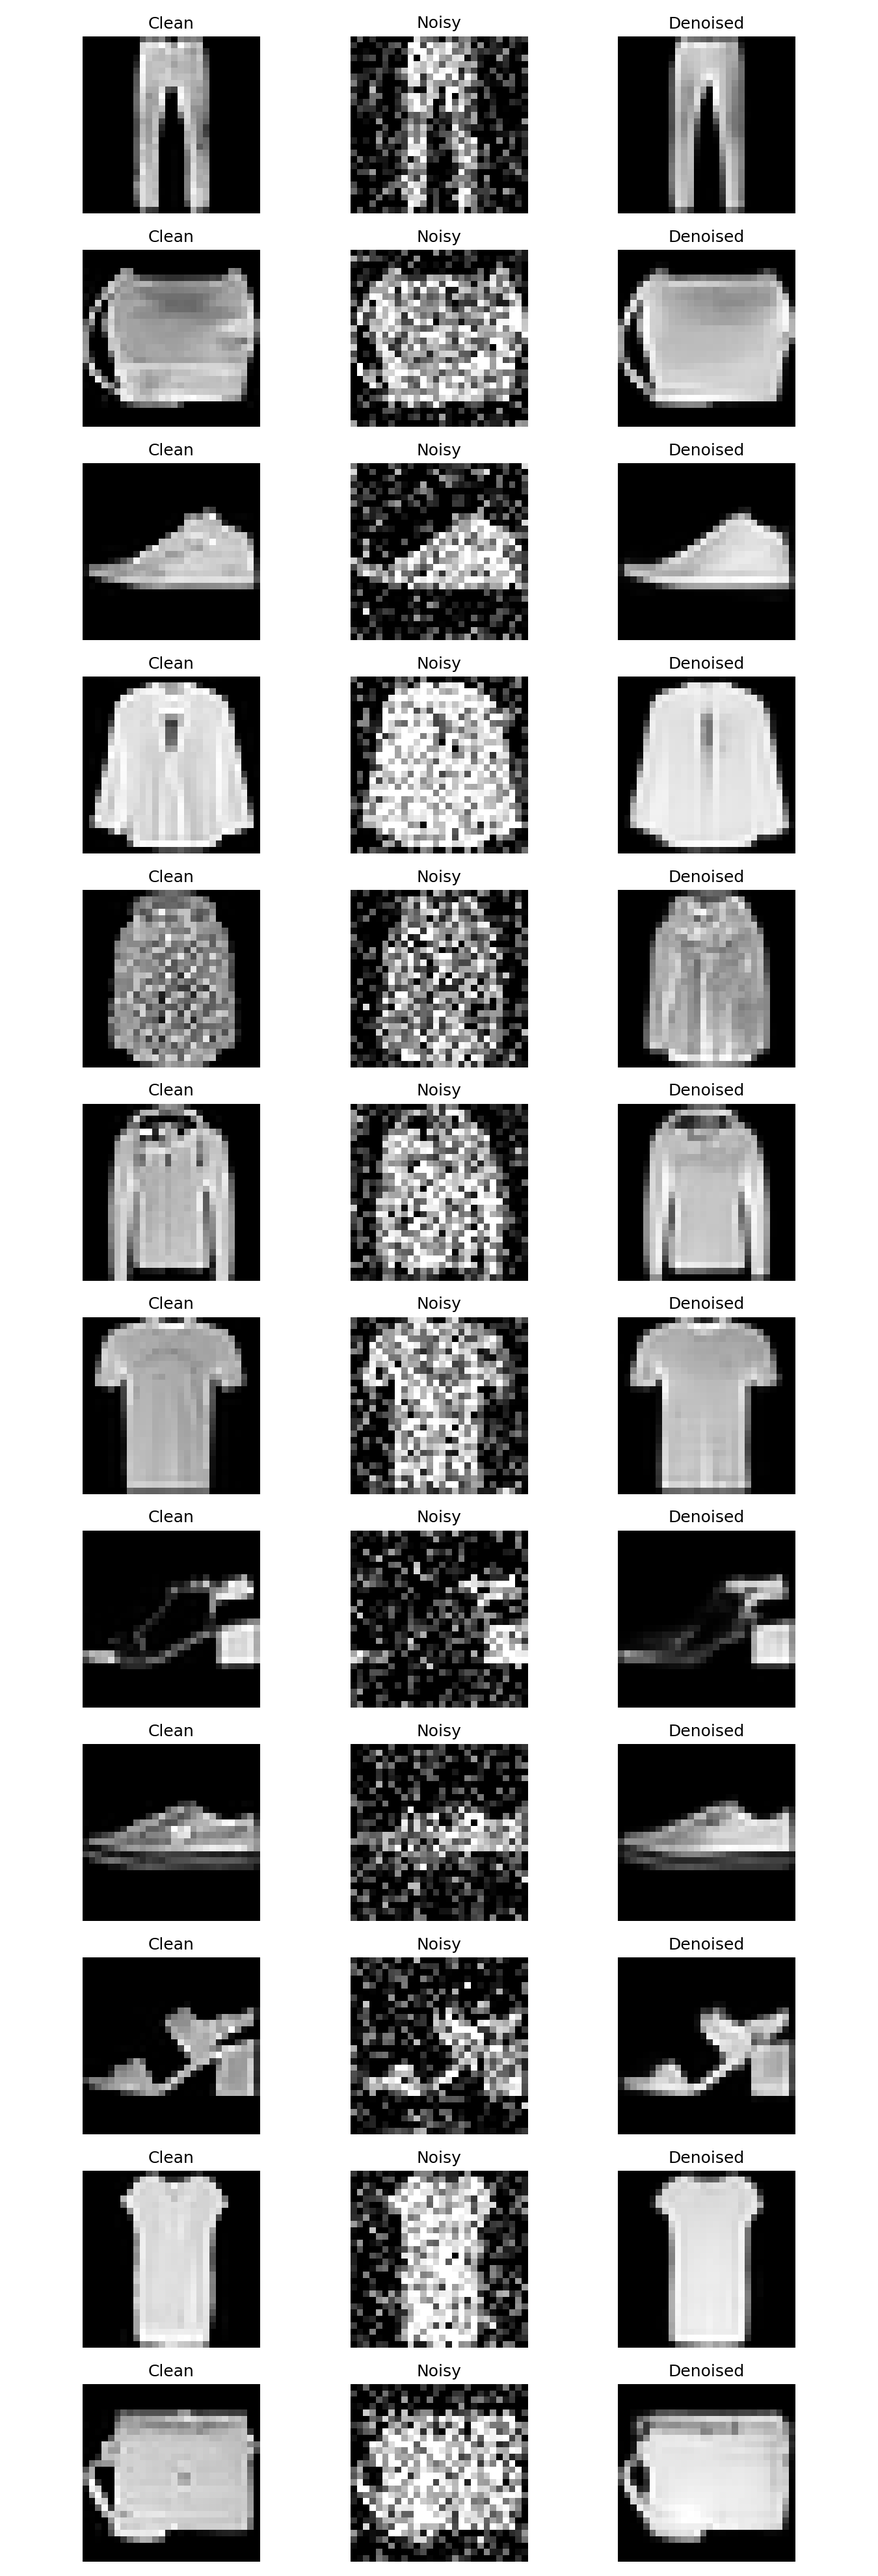
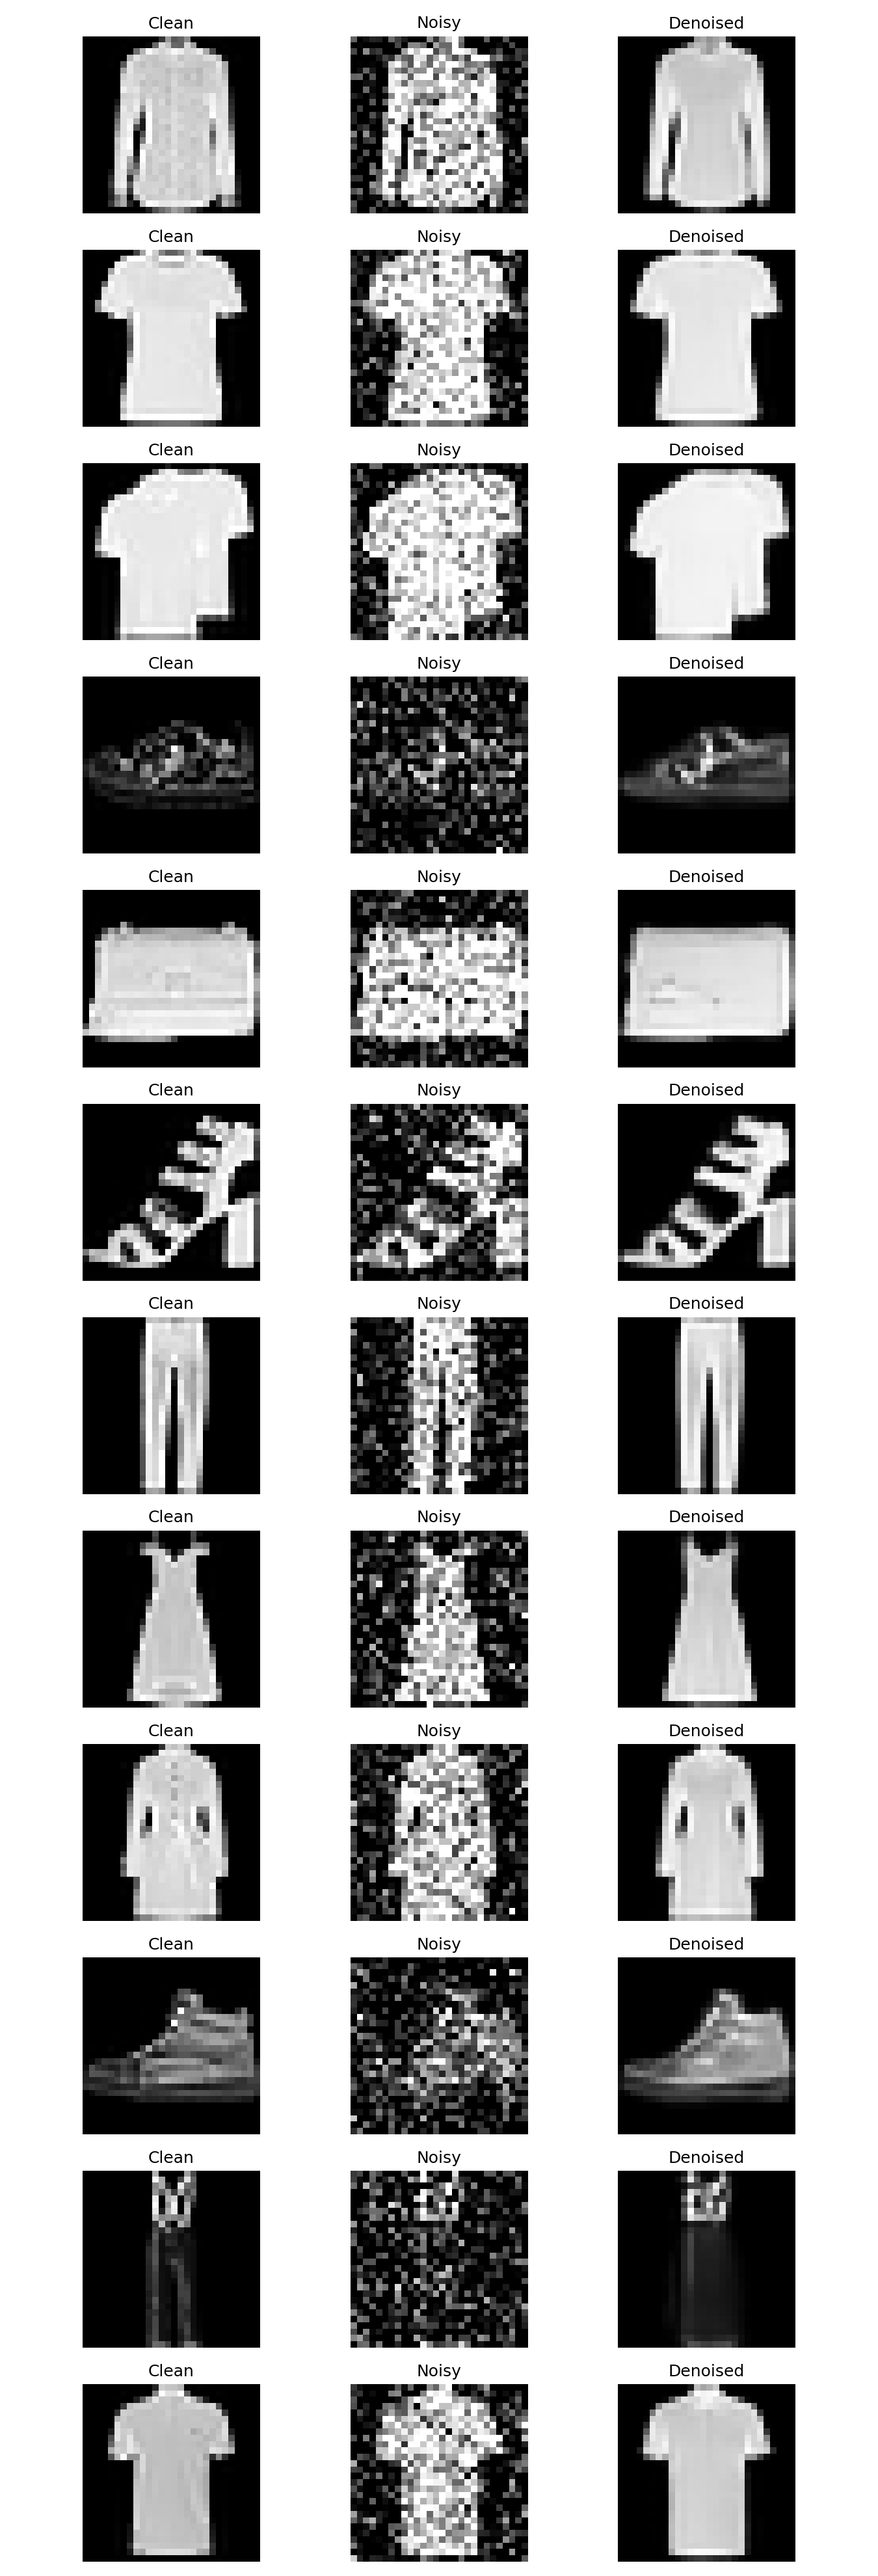
train: tune defaults and improve checkpoint/runtime handling
- set larger batch/epochs and lower lr in training config

- add early-stopping min_delta support in trainer

- improve inference error message for checkpoint architecture mismatch

- disable compile by default and remove Triton autotune env forcing

- update training history and evaluation artifacts

diff --git a/scripts/inference.py b/scripts/inference.py
@@ -1,11 +1,8 @@
 from __future__ import annotations
 
 import argparse
-import os
 import sys
 from pathlib import Path
-
-os.environ.setdefault("TRITON_PRINT_AUTOTUNING", "0")
 
 import torch
 
@@ -61,7 +58,17 @@ def main() -> None:
     if device.type == "cuda":
         model = model.to(memory_format=torch.channels_last)
     checkpoint = safe_torch_load(checkpoint_path, map_location=device)
-    model.load_state_dict(extract_model_state_dict(checkpoint))
+    try:
+        model.load_state_dict(extract_model_state_dict(checkpoint))
+    except RuntimeError as exc:
+        raise RuntimeError(
+            "Failed to load checkpoint due to model/checkpoint mismatch. "
+            "The checkpoint appears to come from an older architecture (e.g. keys like "
+            "'encoder.*'/'decoder.*') while current code expects the newer architecture "
+            "(e.g. 'enc1.*', 'enc2.*', 'bottleneck.*', skip decoder blocks). "
+            "Retrain with current code via 'uv run python scripts/train.py' or use a "
+            "checkpoint produced by this architecture."
+        ) from exc
     model.eval()
 
     noisy_b = noisy.unsqueeze(0).to(device)

diff --git a/src/training/trainer.py b/src/training/trainer.py
@@ -36,6 +36,7 @@ class DenoisingTrainer:
         tb_writer: Any | None = None,
         use_amp: bool = True,
         early_stopping_patience: int = 10,
+        early_stopping_min_delta: float = 0.0,
         use_gpu_noise_for_training: bool = True,
         train_noise_std: float = 0.3,
     ) -> None:
@@ -51,6 +52,7 @@ class DenoisingTrainer:
         self.use_amp = use_amp and device.type == "cuda"
         self.scaler = torch.amp.GradScaler("cuda", enabled=self.use_amp)
         self.early_stopping_patience = early_stopping_patience
+        self.early_stopping_min_delta = max(0.0, float(early_stopping_min_delta))
         self.use_gpu_noise_for_training = use_gpu_noise_for_training and device.type == "cuda"
         self.train_noise_std = train_noise_std
 
@@ -72,7 +74,8 @@ class DenoisingTrainer:
             train_losses.append(train_loss)
             val_losses.append(val_loss)
 
-            if val_loss < best_val:
+            improved = (best_val - val_loss) > self.early_stopping_min_delta
+            if improved:
                 best_val = val_loss
                 best_epoch = epoch
                 epochs_without_improvement = 0

diff --git a/src/config.py b/src/config.py
@@ -22,9 +22,9 @@ class Paths:
 class TrainConfig:
     seed: int = 42
     noise_std: float = 0.3
-    batch_size: int = 256
-    epochs: int = 40
-    lr: float = 1e-3
+    batch_size: int = 512
+    epochs: int = 100
+    lr: float = 5e-4
     weight_decay: float = 1e-5
     num_workers: int = 8
     pin_memory: bool = True
@@ -32,10 +32,13 @@ class TrainConfig:
     train_ratio: float = 0.8
     val_ratio: float = 0.1
     test_ratio: float = 0.1
-    compile_model: bool = True
+    # If False, model runs in eager mode (more stable/debuggable, no compile autotuning phase).
+    compile_model: bool = False
+    # Used only when compile_model=True. Faster options may trigger an autotuning warmup.
     compile_mode: str = "max-autotune-no-cudagraphs"
     use_amp: bool = True
     early_stopping_patience: int = 10
+    early_stopping_min_delta: float = 1e-4
     use_gpu_noise_for_training: bool = True
     base_channels: int = 64
     bottleneck_channels: int = 256

diff --git a/scripts/train.py b/scripts/train.py
@@ -1,12 +1,9 @@
 from __future__ import annotations
 
 import json
-import os
 import random
 import sys
 from pathlib import Path
-
-os.environ.setdefault("TRITON_PRINT_AUTOTUNING", "0")
 
 import numpy as np
 import torch
@@ -200,6 +197,7 @@ def main() -> None:
         tb_writer=writer,
         use_amp=TRAIN_CFG.use_amp,
         early_stopping_patience=TRAIN_CFG.early_stopping_patience,
+        early_stopping_min_delta=TRAIN_CFG.early_stopping_min_delta,
         use_gpu_noise_for_training=TRAIN_CFG.use_gpu_noise_for_training,
         train_noise_std=TRAIN_CFG.noise_std,
     )

diff --git a/src/utils/runtime.py b/src/utils/runtime.py
@@ -1,13 +1,10 @@
 from __future__ import annotations
 
-import os
-
 import torch
 
 
 def enable_cuda_perf_flags() -> None:
     """Enable safe CUDA performance flags for Ampere+ GPUs."""
-    os.environ.setdefault("TRITON_PRINT_AUTOTUNING", "0")
     torch.backends.cuda.matmul.allow_tf32 = True
     torch.backends.cudnn.allow_tf32 = True
 
